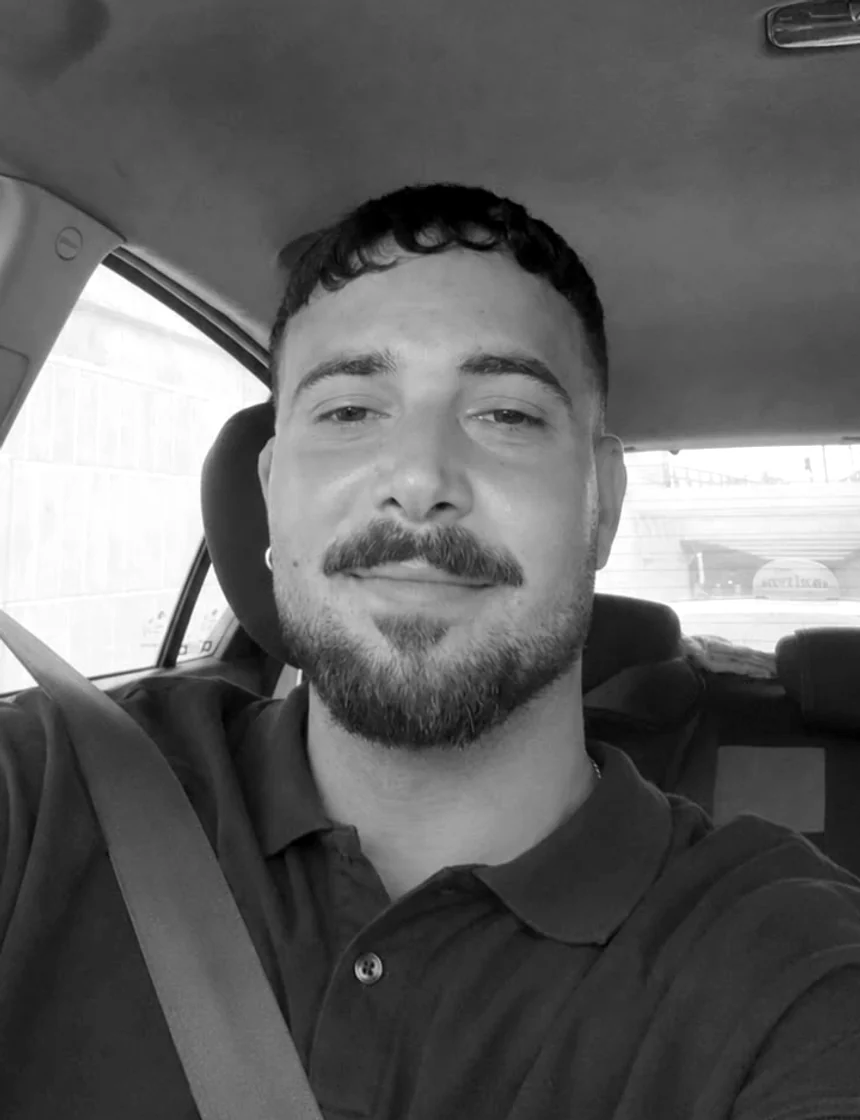
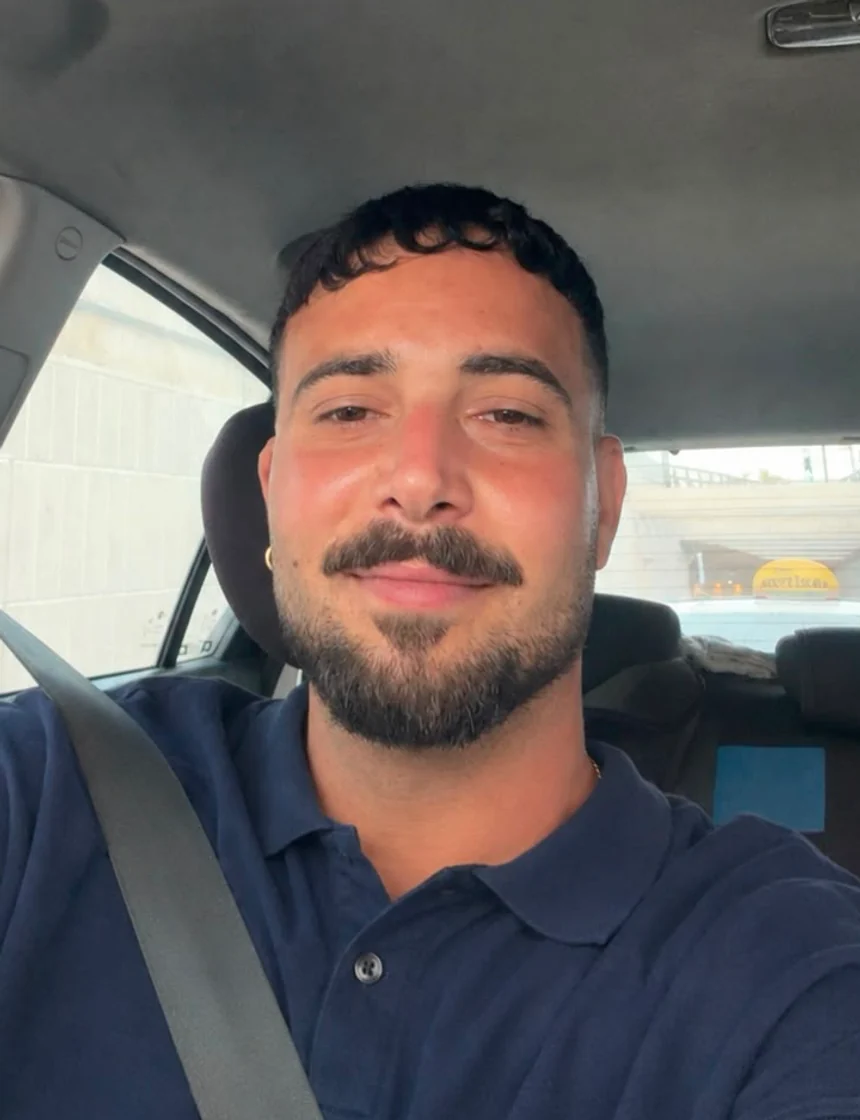
Restore the portrait's colour, centre the heading, add a drawn swash
- The portrait ships in colour now (43KB WebP, same crop).
- "WHO I AM" removed.
- "מי אני?" is centred over its own column with a hand-drawn underline beneath
  it. The swash is a filled outline rather than a stroked line, so its weight
  can thicken through the middle and taper at both ends — a stroked path is a
  constant width, which reads as a rule rather than something drawn.

Claude-Session: https://claude.ai/code/session_01BS2BBrEnniUgVELvbnscX7

diff --git a/components/sections/ServicesSection.tsx b/components/sections/ServicesSection.tsx
@@ -377,6 +377,29 @@ function ServicesListBlock() {
  * away — against the centre of the screen. Anything anchored to an edge would
  * slide sideways as it scaled instead of collapsing into the middle.
  */
+/**
+ * The hand-drawn underline that goes beneath a heading — a single brush stroke
+ * that thickens through the middle and tapers at both ends, rather than a rule.
+ * Drawn as a filled outline rather than a stroked line precisely so the weight
+ * can vary along it, which is what makes it read as drawn instead of ruled.
+ */
+function HeadingSwash({ className }: { className?: string }) {
+  return (
+    <svg
+      viewBox="0 0 240 16"
+      fill="none"
+      aria-hidden="true"
+      className={cn("block h-auto", className)}
+      preserveAspectRatio="none"
+    >
+      <path
+        d="M3.5 9.2c34-3.6 68-5.4 102-5.6 34-.2 68 1.2 131.5 4.4-63.4 1.2-97.4 2.9-131.4 4-34 1.1-68 1.8-102 1.6z"
+        fill="currentColor"
+      />
+    </svg>
+  );
+}
+
 function AboutBlock() {
   return (
     <div className="mx-auto flex w-full max-w-[1120px] items-center justify-center gap-10 lg:gap-14">
@@ -398,9 +421,15 @@ function AboutBlock() {
       </figure>
 
       <div className="flex max-w-[560px] flex-col items-end text-right">
-        <span className="font-display text-xs font-medium tracking-[0.2em] text-black/40 uppercase">Who I Am</span>
-        <h2 className="mt-2 font-display text-[40px] leading-none font-bold text-black sm:text-5xl md:text-[64px]">מי אני?</h2>
-        <p className="mt-5 font-body text-[15px] leading-[1.85] text-black/70">
+        {/* The heading is centred over its own column, with the swash under it
+            — the rest of the column stays right-aligned. */}
+        <div className="mx-auto flex flex-col items-center">
+          <h2 className="font-display text-[40px] leading-none font-bold text-black sm:text-5xl md:text-[64px]">
+            מי אני?
+          </h2>
+          <HeadingSwash className="mt-2 w-[190px] text-black md:w-[230px]" />
+        </div>
+        <p className="mt-6 font-body text-[15px] leading-[1.85] text-black/70">
           YEYE נולד מתוך אובססיה לפרטים קטנים ואמונה עמוקה שכל עסק ראוי לנוכחות דיגיטלית{" "}
           <strong className="font-semibold text-black">ברמה הגבוהה ביותר</strong>. אני מעצב ומפתח עם ניסיון של שנים
           בבניית חוויות דיגיטליות <strong className="font-semibold text-black">שלא רק נראות טוב, אלא עובדות</strong>.
